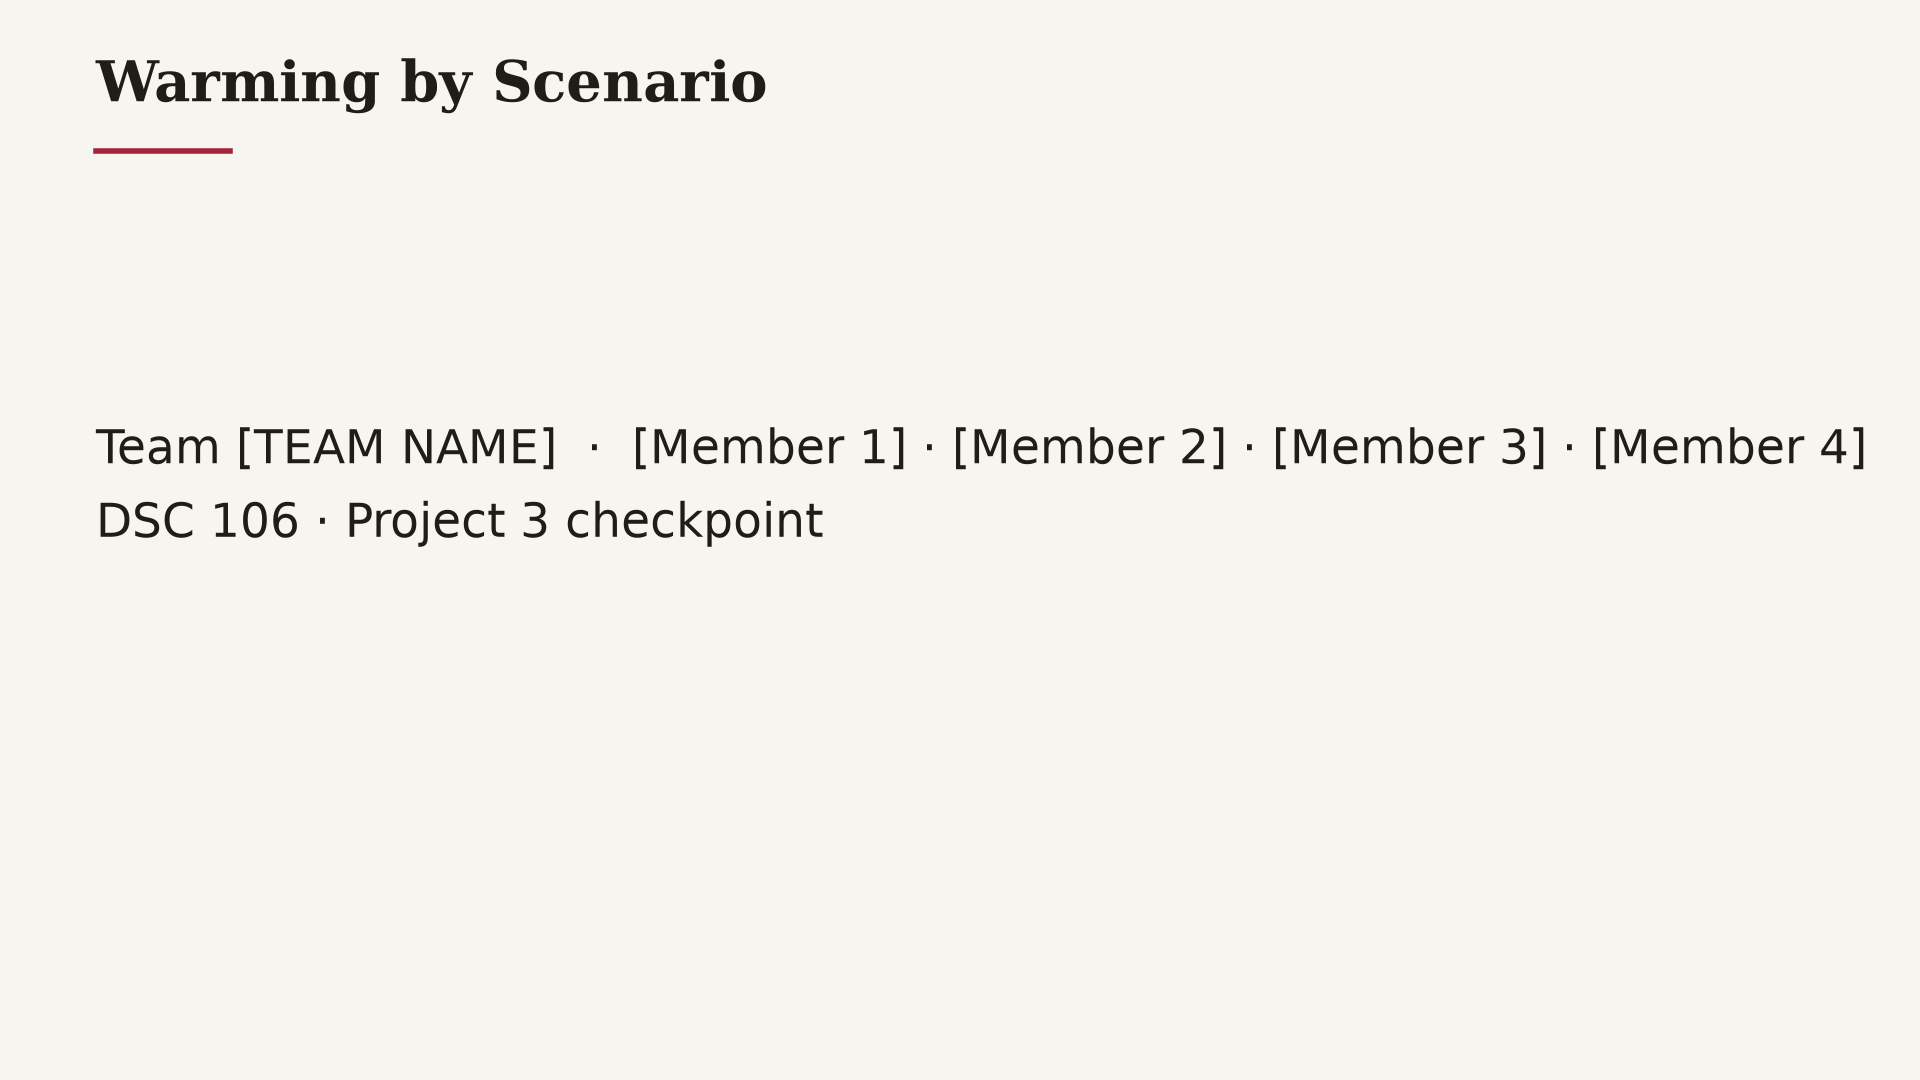
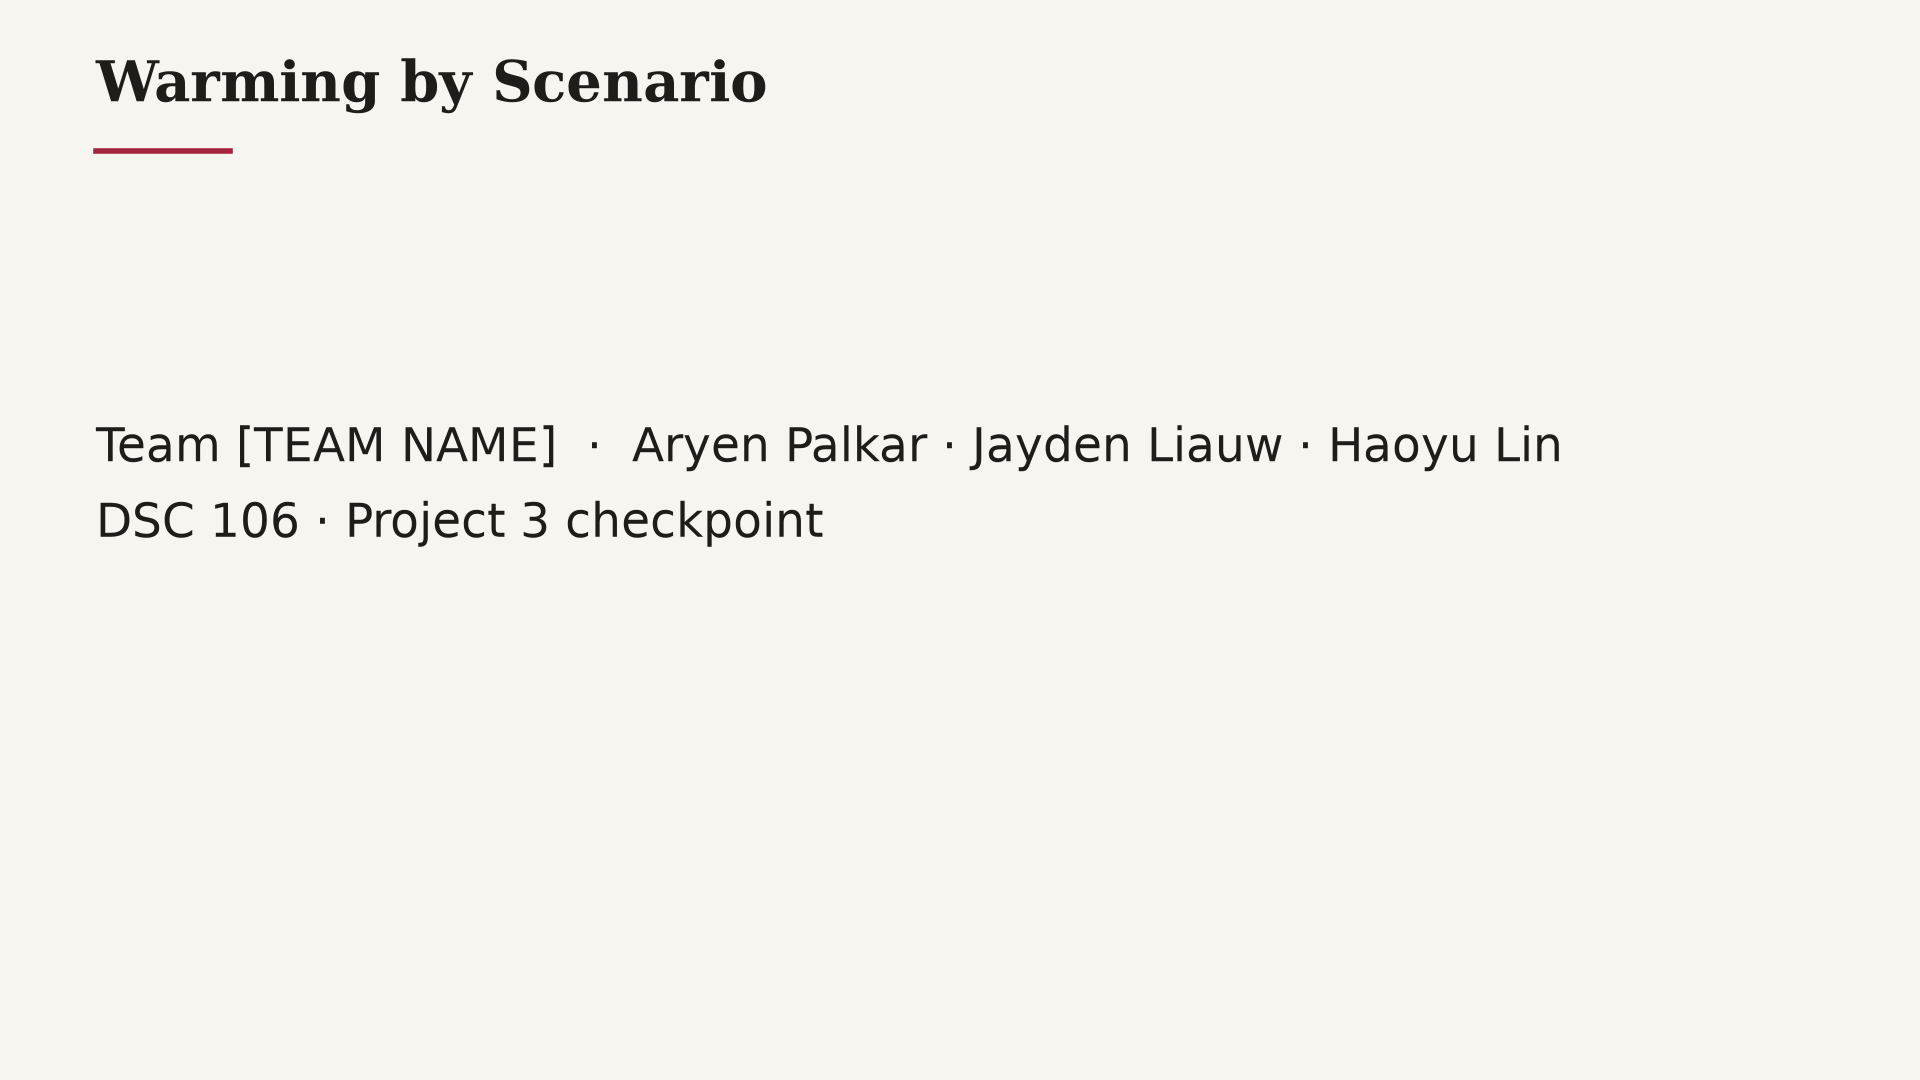
Add team member names to checkpoint slides

Changed region(s): [[0.3125, 0.3972, 0.9688, 0.4278], [0.0625, 0.3972, 0.2812, 0.4278]]

diff --git a/checkpoint/make_video.py b/checkpoint/make_video.py
@@ -16,7 +16,7 @@ BG, INK, MUTED, ACC = "#f7f5f0", "#1f1d1a", "#57524a", "#a3243b"
 
 # (seconds, title, body text or image path, caption)
 SLIDES = [
-    (8, "Warming by Scenario", None, "Team [TEAM NAME]  ·  [Member 1] · [Member 2] · [Member 3] · [Member 4]\nDSC 106 · Project 3 checkpoint"),
+    (8, "Warming by Scenario", None, "Team [TEAM NAME]  ·  Aryen Palkar · Jayden Liauw · Haoyu Lin\nDSC 106 · Project 3 checkpoint"),
     (14, "Dataset: CMIP6 (Google Cloud)", None,
      "Monthly near-surface air temperature (tas) · 9 climate models\n"
      "historical 1950–2014  +  SSP1-2.6 · SSP2-4.5 · SSP3-7.0 · SSP5-8.5 (2015–2100)\n\n"

diff --git a/checkpoint/SCRIPT.md b/checkpoint/SCRIPT.md
@@ -5,7 +5,7 @@ About 150 words per minute. Edit freely and say it in your own words.
 
 | Time | Slide | Say |
 |---|---|---|
-| 0:00–0:08 | Title | "Hi, we're team **[TEAM NAME]**: **[member 1, member 2, member 3, member 4]**. Our project is *Warming by Scenario*." |
+| 0:00–0:08 | Title | "Hi, we're team **[TEAM NAME]**: **Aryen Palkar, Jayden Liauw, and Haoyu Lin**. Our project is *Warming by Scenario*." |
 | 0:08–0:22 | Dataset | "We're using CMIP6, the climate model runs on Google Cloud. We take monthly near-surface air temperature from nine models. Each model has a historical run and four future pathways, from SSP1-2.6, strong mitigation, up to SSP5-8.5, fossil-fuelled growth. We measure each model's warming against its own 1995-to-2014 average, then take the median across models." |
 | 0:22–0:33 | Graph 1 | "First, the global average. The pathways only separate after about 2040. By 2100 they're roughly three degrees apart." |
 | 0:33–0:44 | Graph 2 | "On the map, warming isn't even. Land warms more than ocean, and the Arctic warms the most." |
